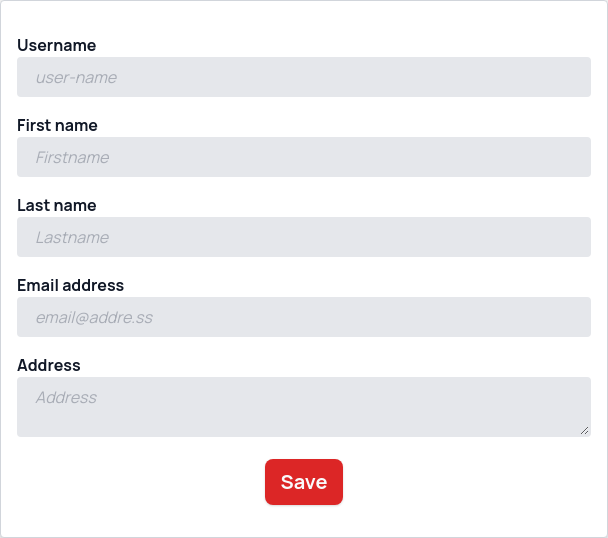
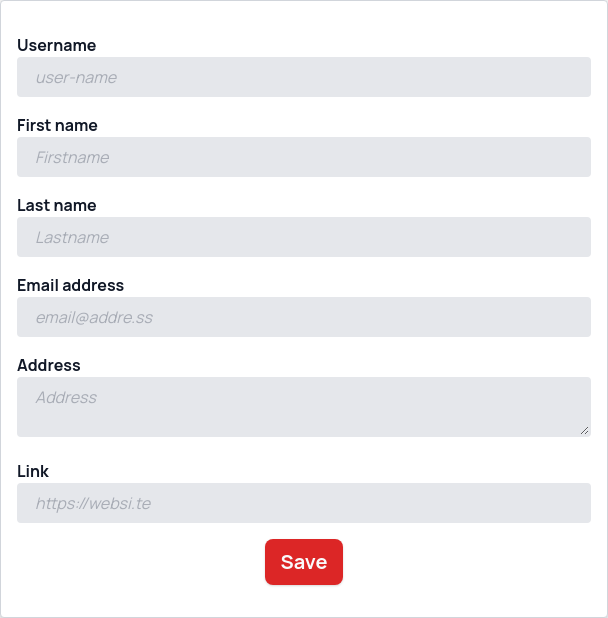
feat(contact): add url
Resolves #93.

diff --git a/nuxt/components/form/event/FormEventInvitation.vue b/nuxt/components/form/event/FormEventInvitation.vue
@@ -96,6 +96,7 @@
         </FormInputError>
       </template>
     </FormInput>
+    <FormInputUrl :form-element="$v.form.url" @input="form.url = $event" />
   </Form>
 </template>
 
@@ -129,6 +130,7 @@ export default {
         emailAddress: undefined,
         firstName: undefined,
         lastName: undefined,
+        url: undefined,
       },
       graphqlErrorMessage: undefined,
     }
@@ -142,6 +144,7 @@ export default {
         'emailAddress',
         'firstName',
         'lastName',
+        'url',
       ].forEach(
         (property) =>
           (this.form[property] = this.dataInitial.contactByContactId[property])
@@ -175,6 +178,7 @@ export default {
                 firstName:
                   this.form.firstName === '' ? null : this.form.firstName,
                 lastName: this.form.lastName === '' ? null : this.form.lastName,
+                url: this.form.url !== '' ? this.form.url : null,
               },
             },
           })
@@ -201,6 +205,7 @@ export default {
                 firstName:
                   this.form.firstName === '' ? null : this.form.firstName,
                 lastName: this.form.lastName === '' ? null : this.form.lastName,
+                url: this.form.url !== '' ? this.form.url : null,
               },
             },
           })
@@ -254,6 +259,12 @@ export default {
         lastName: {
           maxLength: maxLength(
             this.$global.VALIDATION_LAST_NAME_LENGTH_MAXIMUM
+          ),
+        },
+        url: {
+          formatUrl: this.$global.VALIDATION_FORMAT_URL,
+          maxLength: maxLength(
+            this.$global.VALIDATION_EVENT_URL_LENGTH_MAXIMUM
           ),
         },
       },

diff --git a/nuxt/components/form/event/FormEvent.vue b/nuxt/components/form/event/FormEvent.vue
@@ -188,38 +188,11 @@
         {{ $t('inputInfoLocation') }}
       </template>
     </FormInput>
-    <FormInput
+    <FormInputUrl
       v-if="form.isRemote"
-      :error="$v.form.url.$error"
-      label-for="input-url"
-      :title="$t('url')"
-    >
-      <input
-        id="input-url"
-        v-model.trim="$v.form.url.$model"
-        class="form-input"
-        type="text"
-      />
-      <template slot="inputError">
-        <FormInputError
-          :form-input="$v.form.url"
-          validation-property="maxLength"
-        >
-          {{ $t('globalValidationLength') }}
-        </FormInputError>
-        <FormInputError
-          :form-input="$v.form.url"
-          validation-property="formatUrl"
-        >
-          {{ $t('globalValidationFormat') }}
-          <br />
-          {{ $t('globalValidationFormatUrl') }}
-        </FormInputError>
-      </template>
-      <template slot="inputInfo">
-        {{ $t('inputInfoUrl') }}
-      </template>
-    </FormInput>
+      :form-element="$v.form.url"
+      @input="form.url = $event"
+    />
     <FormInput
       :error="$v.form.description.$error"
       label-for="input-description"
@@ -546,7 +519,6 @@ de:
   slug: Slug
   slugPlaceholder: willkommensfeier
   start: Beginn
-  url: Link
   visibility: Sichtbarkeit
   visibilityPrivate: privat
   visibilityPublic: öffentlich
@@ -574,7 +546,6 @@ en:
   slug: Slug
   slugPlaceholder: welcome-party
   start: Start
-  url: Link
   visibility: Visibility
   visibilityPrivate: private
   visibilityPublic: public

diff --git a/nuxt/components/event/EventInvitations.vue b/nuxt/components/event/EventInvitations.vue
@@ -13,6 +13,7 @@
             <th class="border" scope="col">{{ $t('lastName') }}</th>
             <th class="border" scope="col">{{ $t('emailAddress') }}</th>
             <th class="border" scope="col">{{ $t('address') }}</th>
+            <th class="border" scope="col">{{ $t('url') }}</th>
             <th class="border" scope="col">{{ $t('invitationCode') }}</th>
             <th class="border" scope="col">{{ $t('feedback') }}</th>
           </tr>
@@ -42,6 +43,9 @@
                   ', '
                 )
               }}
+            </td>
+            <td class="border">
+              {{ invitation.contactByContactId.url }}
             </td>
             <td class="border font-mono">{{ invitation.uuid }}</td>
             <td class="border font-mono">
@@ -306,6 +310,7 @@ de:
   lastName: Nachname
   save: Speichern
   sendSuccess: Einladung an {emailAddress} erfolgreich angefordert.
+  url: Webseite
   username: Nutzername
 en:
   address: Address
@@ -326,5 +331,6 @@ en:
   lastName: Last name
   save: Save
   sendSuccess: Invitation to {emailAddress} requested successfully.
+  url: Website
   username: Username
 </i18n>

diff --git a/nuxt/components/form/input/FormInputUrl.vue b/nuxt/components/form/input/FormInputUrl.vue
@@ -1,0 +1,48 @@
+<template>
+  <FormInput
+    :error="formElement.$error"
+    :label-for="`input-${id}`"
+    :title="$t('url')"
+  >
+    <input
+      :id="`input-${id}`"
+      class="form-input"
+      :placeholder="$t('globalPlaceholderUrl')"
+      type="url"
+      :value="formElement.$model"
+      @input="$emit('input', $event.target.value)"
+    />
+    <template slot="inputError">
+      <FormInputError :form-input="formElement" validation-property="formatUrl">
+        {{ $t('globalValidationFormat') }}
+        <br />
+        {{ $t('globalValidationFormatUrl') }}
+      </FormInputError>
+      <FormInputError :form-input="formElement" validation-property="maxLength">
+        {{ $t('globalValidationLength') }}
+      </FormInputError>
+    </template>
+  </FormInput>
+</template>
+
+<script>
+export default {
+  props: {
+    id: {
+      default: 'url',
+      type: String,
+    },
+    formElement: {
+      required: true,
+      type: Object,
+    },
+  },
+}
+</script>
+
+<i18n lang="yml">
+de:
+  url: Link
+en:
+  url: Link
+</i18n>
